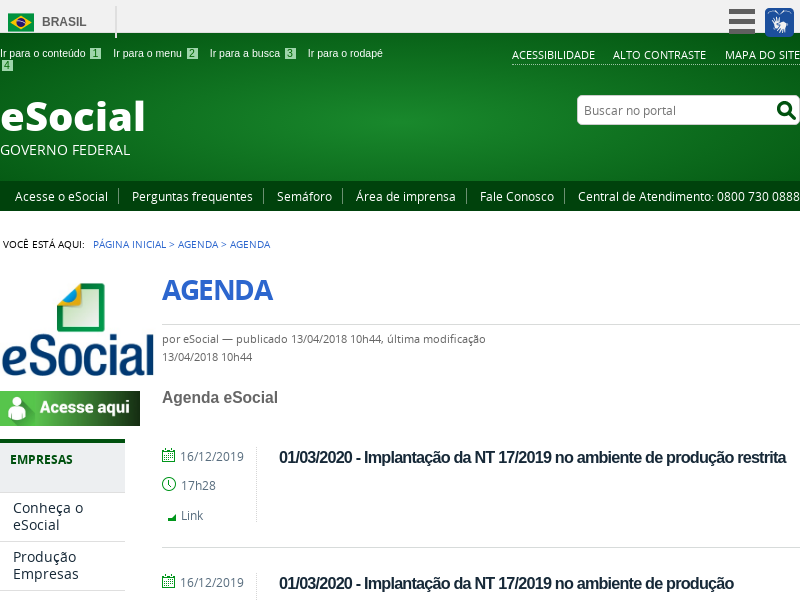
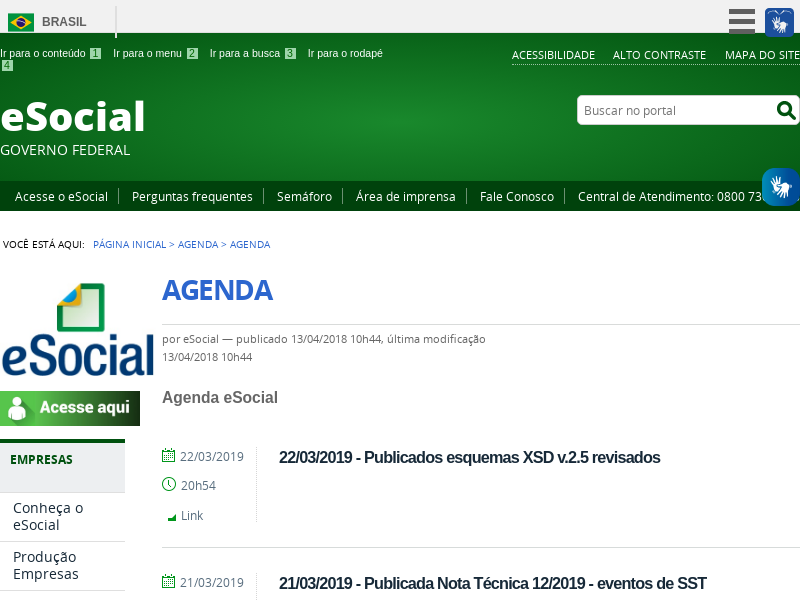
integrando o pm2

diff --git a/app.js b/app.js
@@ -1,6 +1,6 @@
 const puppeteer = require('puppeteer');
 var CronJob = require('cron').CronJob;
-// const nodemailer = require('nodemailer');
+const nodemailer = require('nodemailer');
 var mysql = require('mysql');
 require('dotenv').config();
 const express = require('express');
@@ -28,8 +28,11 @@ const scrape = async () => {
   const browser = await puppeteer.launch({
     args: ['--no-sandbox', '--disable-setuid-sandbox'],
   });
+
   const page = await browser.newPage();
-  await page.goto('http://portal.esocial.gov.br/agenda/agenda-1');
+  await page.goto(
+    'http://portal.esocial.gov.br/agenda/agenda-1?b_start:int=30'
+  );
   await page.screenshot({ path: 'esocial.png' });
 
   const result = await page.evaluate(() => {
@@ -108,32 +111,31 @@ var job = new CronJob('* * * * *', () => {
     });
     // linha com problema
 
-    //   async function main() {
-    //     // create reusable transporter object using the default SMTP transport
-    //     const transporter = nodemailer.createTransport({
-    //       host: 'smtp.gmail.com',
-    //       port: 587,
-    //       secure: false, // true for 465, false for other ports
-    //       auth: {
-    //         user: process.env.EMIAL_USER, // generated ethereal user
-    //         pass: process.env.EMAIL_PASSWORD, // generated ethereal password
-    //       },
-    //     });
+    async function main() {
+      // create reusable transporter object using the default SMTP transport
+      const transporter = nodemailer.createTransport({
+        host: 'smtp.gmail.com',
+        port: 587,
+        secure: false, // true for 465, false for other ports
+        auth: {
+          user: process.env.EMIAL_USER, // generated ethereal user
+          pass: process.env.EMAIL_PASSWORD, // generated ethereal password
+        },
+      });
 
-    //     // send mail with defined transport object
-    //     const info = await transporter.sendMail({
-    //       from: 'joao.brasil@tecnospeed.com.br', // sender address
-    //       to: 'joao.brasil@tecnospeed.com.br', // list of receivers
-    //       subject: 'Alerta ✔', // Subject line
-    //       text: 'Novos itens alterado', // plain text body
-    //       html:
-    //         'Foram encontrados alterações da pagina <br> <img src=https://csc.tecnospeed.com.br/promo/1080x200/image>', // html body
-    //     });
-    //     console.log('Message sent: %s', info.messageId);
-    //     console.log('Preview URL: %s', nodemailer.getTestMessageUrl(info));
-    //   }
+      // send mail with defined transport object
+      const info = await transporter.sendMail({
+        from: 'joao.brasil@tecnospeed.com.br', // sender address
+        to: 'joao.brasil@tecnospeed.com.br', // list of receivers
+        subject: 'Alerta ✔', // Subject line
+        text: 'Novos itens alterado', // plain text body
+        html: 'teste', // html body
+      });
+      console.log('Message sent: %s', info.messageId);
+      console.log('Preview URL: %s', nodemailer.getTestMessageUrl(info));
+    }
 
-    //   main().catch(console.error);
+    main().catch(console.error);
   });
 });
 job.start();

diff --git a/ecosystem.config.js b/ecosystem.config.js
@@ -1,0 +1,33 @@
+module.exports = {
+  apps: [
+    {
+      name: 'API',
+      script: 'app.js',
+
+      // Options reference: https://pm2.keymetrics.io/docs/usage/application-declaration/
+      args: 'one two',
+      instances: 1,
+      autorestart: true,
+      watch: false,
+      max_memory_restart: '1G',
+      env: {
+        NODE_ENV: 'development',
+      },
+      env_production: {
+        NODE_ENV: 'production',
+      },
+    },
+  ],
+
+  deploy: {
+    production: {
+      user: 'node',
+      host: '212.83.163.1',
+      ref: 'origin/master',
+      repo: 'git@github.com:repo.git',
+      path: '/var/www/production',
+      'post-deploy':
+        'npm install && pm2 reload ecosystem.config.js --env production',
+    },
+  },
+};
